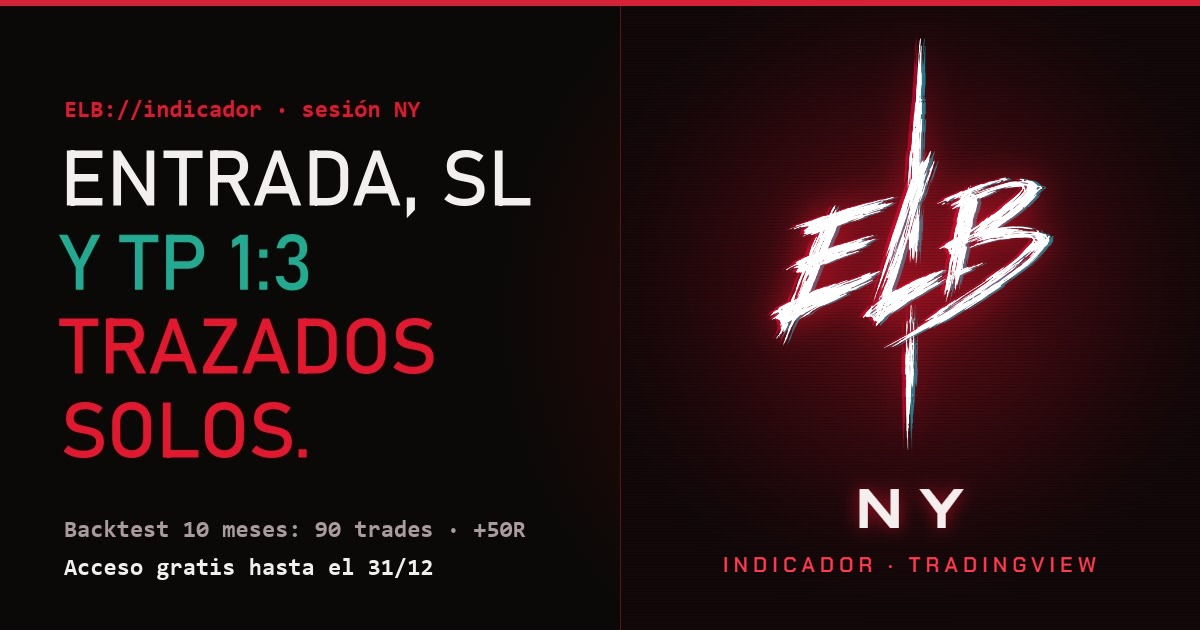
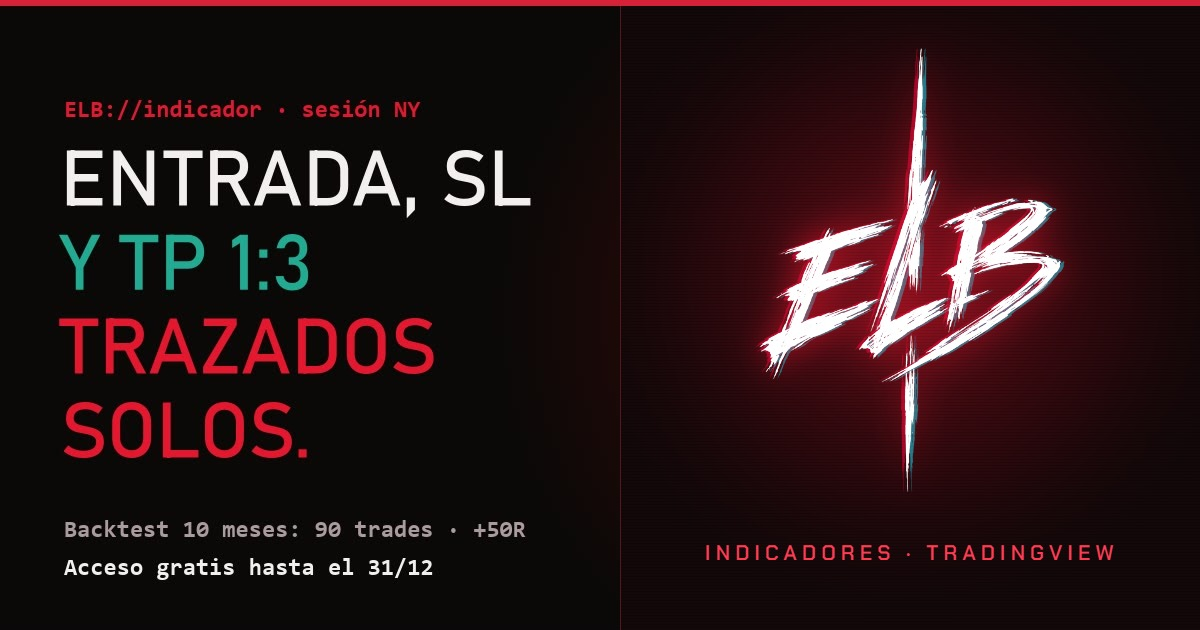
ELB como marca; el indicador queda como ELB NZDUSD, solo NZDUSD
- La marca del sitio es ELB (sin "NY") en la barra, el pie y el titulo
- El indicador se llama ELB NZDUSD y solo menciona NZDUSD: se quitan
  GBPUSD, EURUSD y NASDAQ100 de la portada, la cinta, la ficha y el FAQ
- Apartado #elb-nzdusd; los enlaces viejos #elb-ny siguen funcionando
- Vista previa al compartir sin "NY"

Changed region(s): [[0.5858, 0.0603, 0.925, 0.9048]]

diff --git a/index.html b/index.html
@@ -3,8 +3,8 @@
 <head>
 <meta charset="utf-8">
 <meta name="viewport" content="width=device-width, initial-scale=1, viewport-fit=cover">
-<title>ELB NY</title>
-<meta name="description" content="ELB NY: indicador para TradingView que traza la entrada, el stop loss y el take profit 1:3 en la sesión de Nueva York.">
+<title>ELB · Indicadores para TradingView</title>
+<meta name="description" content="ELB: indicadores para TradingView. ELB NZDUSD traza la entrada, el stop loss y el take profit 1:3 en NZDUSD durante la sesión de Nueva York.">
 <meta name="theme-color" content="#0b0809">
 <link rel="icon" type="image/png" sizes="16x16" href="media/favicon-16.png">
 <link rel="icon" type="image/png" sizes="32x32" href="media/favicon-32.png">
@@ -12,7 +12,7 @@
 <link rel="icon" type="image/svg+xml" sizes="any" href="media/favicon.svg">
 <link rel="apple-touch-icon" href="media/icon-180.png">
 <meta property="og:type" content="website">
-<meta property="og:title" content="ELB NY · Entrada, SL y TP 1:3 trazados solos">
+<meta property="og:title" content="ELB · Entrada, SL y TP 1:3 trazados solos">
 <meta property="og:description" content="Indicador para TradingView en la sesión de Nueva York. Backtest de 10 meses: 90 trades, +50R. Acceso gratis hasta el 31/12.">
 <meta property="og:url" content="https://garou-lb-06.github.io/elb-ny/">
 <meta property="og:image" content="https://garou-lb-06.github.io/elb-ny/media/og.jpg">
@@ -695,8 +695,8 @@ main:focus { outline: none; }
 
 <header class="nav" id="nav">
   <div class="wrap nav-in">
-    <a class="brand" href="#inicio" aria-label="ELB NY, ir al inicio">
-      <span class="logo"><img src="media/elb-logo.png" alt="ELB" width="494" height="720" decoding="async"></span><span class="brand-ny">NY</span>
+    <a class="brand" href="#inicio" aria-label="ELB, ir al inicio">
+      <span class="logo"><img src="media/elb-logo.png" alt="ELB" width="494" height="720" decoding="async"></span>
     </a>
     <nav class="nav-links" aria-label="Secciones">
       <a href="#indicadores">Indicadores</a>
@@ -743,7 +743,7 @@ main:focus { outline: none; }
           <span class="ln">y <span class="tp">TP 1:3</span>.</span>
           <span class="ln accent glitch auto" data-text="Trazados solos.">Trazados solos.</span>
         </h1>
-        <p class="lede">ELB NY detecta el setup en GBPUSD, EURUSD y NASDAQ100 y te deja la operación dibujada en el gráfico: dónde entrar, dónde cortar y dónde cobrar. Tú solo decides si la tomas.</p>
+        <p class="lede">ELB NZDUSD detecta el setup en NZDUSD durante la sesión de Nueva York y te deja la operación dibujada en el gráfico: dónde entrar, dónde cortar y dónde cobrar. Tú solo decides si la tomas.</p>
         <div class="hero-cta">
           <a class="btn btn-red" href="#acceso">Pedir acceso gratis
             <svg viewBox="0 0 24 24" fill="none" stroke="currentColor" stroke-width="2.4" aria-hidden="true"><path d="M5 12h14M13 6l6 6-6 6"/></svg>
@@ -764,7 +764,7 @@ main:focus { outline: none; }
       <div class="hero-media">
         <div class="giant" id="giant" aria-hidden="true"><span class="giant-logo"></span></div>
         <div class="phone" id="phone">
-          <video id="heroVideo" src="media/reel-historia.mp4" poster="media/reel-historia.jpg" autoplay muted loop playsinline preload="metadata" aria-label="Reel de ELB NY: los 5 trades de octubre, +$700"></video>
+          <video id="heroVideo" src="media/reel-historia.mp4" poster="media/reel-historia.jpg" autoplay muted loop playsinline preload="metadata" aria-label="Reel de ELB: los 5 trades de octubre, +$700"></video>
           <button class="sound-btn" id="soundBtn" type="button" aria-pressed="false">
             <svg viewBox="0 0 24 24" fill="none" stroke="currentColor" stroke-width="2" aria-hidden="true"><path d="M4 9v6h4l5 4V5L8 9H4z"/><path id="soundWave" d="M17 9l4 6M21 9l-4 6"/></svg>
             <span id="soundLabel">Activar sonido</span>
@@ -779,9 +779,9 @@ main:focus { outline: none; }
     <div class="tape" aria-hidden="true">
       <div class="tape-track">
         <div class="tape-group">
-          <span class="tape-item"><b>GBPUSD</b></span>
-          <span class="tape-item"><b>EURUSD</b></span>
-          <span class="tape-item"><b>NASDAQ100</b></span>
+          <span class="tape-item"><b>NZDUSD</b></span>
+          <span class="tape-item">Broker <b>OANDA</b></span>
+          <span class="tape-item">Gráfico <b>7 min</b></span>
           <span class="tape-item">Sesión NY <b>08:00–17:00 ET</b></span>
           <span class="tape-item">Riesgo / beneficio <b>1:3</b></span>
           <span class="tape-item">Entrada · SL · TP <b>trazados</b></span>
@@ -790,9 +790,9 @@ main:focus { outline: none; }
           <span class="tape-item">Acceso gratis <b>hasta el 31/12</b></span>
         </div>
         <div class="tape-group">
-          <span class="tape-item"><b>GBPUSD</b></span>
-          <span class="tape-item"><b>EURUSD</b></span>
-          <span class="tape-item"><b>NASDAQ100</b></span>
+          <span class="tape-item"><b>NZDUSD</b></span>
+          <span class="tape-item">Broker <b>OANDA</b></span>
+          <span class="tape-item">Gráfico <b>7 min</b></span>
           <span class="tape-item">Sesión NY <b>08:00–17:00 ET</b></span>
           <span class="tape-item">Riesgo / beneficio <b>1:3</b></span>
           <span class="tape-item">Entrada · SL · TP <b>trazados</b></span>
@@ -816,15 +816,15 @@ main:focus { outline: none; }
       <div class="ind-grid">
         <article class="ticket ind-card">
           <div class="ind-top">
-            <div class="ind-name"><span class="logo"><img src="media/elb-logo.png" alt="ELB" width="494" height="720" decoding="async"></span><span class="brand-ny">NY</span></div>
+            <div class="ind-name"><span class="logo"><img src="media/elb-logo.png" alt="ELB" width="494" height="720" decoding="async"></span><span class="brand-ny">NZDUSD</span></div>
             <span class="badge badge-free">Gratis hasta el 31/12</span>
           </div>
-          <p class="ind-full">ELB NY GBPUSD - EURUSD - NASDAQ100</p>
+          <p class="ind-full">ELB NZDUSD · Indicador para TradingView</p>
           <p class="ind-desc">Cuando se forma la señal, el indicador traza tres líneas: la entrada, el stop loss y el take profit a tres veces el riesgo. En la esquina del gráfico lleva la cuenta del mes: trades, TP, SL, winrate, R neto y beneficio.</p>
           <div class="ind-body">
             <dl class="specs">
-              <div><dt>Mercados</dt><dd><span class="chips"><span class="chip">GBPUSD</span><span class="chip">EURUSD</span><span class="chip">NASDAQ100</span></span></dd></div>
-              <div><dt>Resultados</dt><dd>NZDUSD · OANDA · 7 min <span class="must-tag">obligatorio</span></dd></div>
+              <div><dt>Mercado</dt><dd><span class="chips"><span class="chip">NZDUSD</span></span></dd></div>
+              <div><dt>Gráfico</dt><dd>NZDUSD · OANDA · 7 min <span class="must-tag">obligatorio</span></dd></div>
               <div><dt>Sesión</dt><dd>Nueva York</dd></div>
               <div><dt>Gestión</dt><dd>SL y TP 1:3 trazados en cada señal</dd></div>
               <div><dt>Panel</dt><dd>Resultados del mes en vivo</dd></div>
@@ -857,7 +857,7 @@ main:focus { outline: none; }
           </div>
           <div class="ind-actions">
             <a class="btn btn-red" href="#acceso">Pedir acceso</a>
-            <a class="btn btn-ghost" href="#elb-ny">Ver sus resultados</a>
+            <a class="btn btn-ghost" href="#elb-nzdusd">Ver sus resultados</a>
           </div>
         </article>
 
@@ -934,7 +934,7 @@ main:focus { outline: none; }
       <header class="sec-head">
         <p class="kicker">ELB://ratio-1-3</p>
         <h2>¿Por qué 1:3?</h2>
-        <p>Cada TP paga tres veces lo que arriesga cada SL. Con eso, acertar más de 1 de cada 4 operaciones ya deja el resultado en positivo. El control arranca en 39 %, el winrate real de ELB NY en 10 meses de backtest en NZDUSD de OANDA a 7 minutos. Muévelo y compruébalo.</p>
+        <p>Cada TP paga tres veces lo que arriesga cada SL. Con eso, acertar más de 1 de cada 4 operaciones ya deja el resultado en positivo. El control arranca en 39 %, el winrate real de ELB NZDUSD en 10 meses de backtest en NZDUSD de OANDA a 7 minutos. Muévelo y compruébalo.</p>
       </header>
 
       <div class="ticket calc">
@@ -980,7 +980,7 @@ main:focus { outline: none; }
       <header class="sec-head">
         <p class="kicker">ELB://acceso</p>
         <h2>Actívalo gratis en 4 pasos</h2>
-        <p>ELB NY es un script solo por invitación: lo activo a mano para tu usuario de TradingView. Sin pagos y sin tarjeta hasta el 31 de diciembre.</p>
+        <p>ELB NZDUSD es un script solo por invitación: lo activo a mano para tu usuario de TradingView. Sin pagos y sin tarjeta hasta el 31 de diciembre.</p>
       </header>
 
       <div class="acc-grid">
@@ -989,7 +989,7 @@ main:focus { outline: none; }
             <li><div><h3>Escríbeme</h3><p>Comenta <kbd>ELB</kbd> en cualquiera de mis reels o mándame un DM.</p></div></li>
             <li><div><h3>Pásame tu usuario</h3><p>Envíame tu nombre de usuario de TradingView. Abajo te armo el mensaje listo para copiar.</p></div></li>
             <li><div><h3>Te doy acceso</h3><p>Activo el indicador en tu cuenta y te aviso por el mismo chat.</p></div></li>
-            <li><div><h3>Agrégalo al gráfico</h3><p>En TradingView abre <kbd>Indicadores</kbd> → <kbd>Solo por invitación</kbd> y elige ELB NY. Márcalo con ★ para tenerlo en favoritos.</p></div></li>
+            <li><div><h3>Agrégalo al gráfico</h3><p>En TradingView abre <kbd>Indicadores</kbd> → <kbd>Solo por invitación</kbd> y elige ELB NZDUSD. Márcalo con ★ para tenerlo en favoritos.</p></div></li>
           </ol>
 
           <div class="ticket msg">
@@ -998,7 +998,7 @@ main:focus { outline: none; }
               <label for="tvUser">Tu usuario de TradingView</label>
               <input id="tvUser" type="text" placeholder="ej. trader_ny" autocomplete="off" spellcheck="false" maxlength="40">
             </div>
-            <pre class="msg-preview" id="msgPreview">Hola, quiero acceso gratis a ELB NY. Mi usuario de TradingView es: ________</pre>
+            <pre class="msg-preview" id="msgPreview">Hola, quiero acceso gratis a ELB NZDUSD. Mi usuario de TradingView es: ________</pre>
             <div class="msg-actions">
               <button class="btn btn-red btn-sm" id="copyMsg" type="button">Copiar mensaje</button>
               <span class="copy-status" id="copyStatus" role="status"></span>
@@ -1008,11 +1008,11 @@ main:focus { outline: none; }
         </div>
 
         <div style="display: grid; gap: 14px;">
-          <div class="tvdlg" aria-label="Vista del menú de indicadores de TradingView con ELB NY seleccionado" role="img">
+          <div class="tvdlg" aria-label="Vista del menú de indicadores de TradingView con ELB NZDUSD seleccionado" role="img">
             <div class="tvdlg-head"><span>Indicadores, métricas y estrategias</span><span class="x" aria-hidden="true">×</span></div>
             <div class="tvdlg-search">
               <svg viewBox="0 0 24 24" fill="none" stroke="currentColor" stroke-width="2.4" aria-hidden="true"><circle cx="11" cy="11" r="7"/><path d="M20 20l-4-4"/></svg>
-              <span id="tvTyped">ELB NY</span><span class="caret" aria-hidden="true"></span>
+              <span id="tvTyped">ELB</span><span class="caret" aria-hidden="true"></span>
             </div>
             <div class="tvdlg-body">
               <div class="tvdlg-side"><span>Favoritos</span><span>Personal</span><span>Técnicos</span><span>Financieros</span><span class="on">Solo por invitación</span></div>
@@ -1020,7 +1020,7 @@ main:focus { outline: none; }
                 <div class="tvdlg-cols"><span>NOMBRE</span><span>BOOSTS</span></div>
                 <div class="tvdlg-row" id="tvRow">
                   <svg viewBox="0 0 24 24" fill="currentColor" aria-hidden="true"><path d="M12 2l3.1 6.3 6.9 1-5 4.9 1.2 6.8L12 17.8 5.8 21l1.2-6.8-5-4.9 6.9-1z"/></svg>
-                  ELB NY GBPUSD - EURUSD - NASDAQ100
+                  ELB NZDUSD
                 </div>
               </div>
             </div>
@@ -1052,12 +1052,12 @@ main:focus { outline: none; }
       </header>
       <div class="faq">
         <details open>
-          <summary>¿Qué hace exactamente ELB NY?</summary>
+          <summary>¿Qué hace exactamente ELB NZDUSD?</summary>
           <div>Cuando se forma la señal, traza en tu gráfico la entrada, el stop loss y el take profit a tres veces el riesgo. Además muestra una tabla con los resultados del mes: trades, TP, SL, winrate, R neto y beneficio.</div>
         </details>
         <details>
-          <summary>¿En qué mercados y horario funciona?</summary>
-          <div>Está pensado para la sesión de Nueva York en GBPUSD, EURUSD y NASDAQ100. Sus resultados salen de un replay en NZDUSD de OANDA a 7 minutos, y para obtenerlos tienes que usar obligatoriamente ese gráfico: con otro par, otro broker u otra temporalidad las señales y los resultados cambian.</div>
+          <summary>¿En qué mercado y horario funciona?</summary>
+          <div>Funciona solo en NZDUSD, durante la sesión de Nueva York. Sus resultados salen de un replay en NZDUSD de OANDA a 7 minutos, y para obtenerlos tienes que usar obligatoriamente ese gráfico: con otro par, otro broker u otra temporalidad las señales y los resultados cambian.</div>
         </details>
         <details>
           <summary>¿Por qué la flecha dice SELL y las líneas marcan una compra?</summary>
@@ -1065,7 +1065,7 @@ main:focus { outline: none; }
         </details>
         <details>
           <summary>¿Puedo usarlo con TP a 1:2?</summary>
-          <div>Sí. Con las mismas señales y el TP a 1:2, de enero a octubre de 2026 cerró 43 TP y 47 SL (47.8 % de acierto) y +39R, contra +50R con 1:3. Lo comparo mes a mes en el apartado de ELB NY, en <a href="#elb-ny-comparativa">1:3 contra 1:2</a>, y el simulador te deja probar las dos versiones con tu capital.</div>
+          <div>Sí. Con las mismas señales y el TP a 1:2, de enero a octubre de 2026 cerró 43 TP y 47 SL (47.8 % de acierto) y +39R, contra +50R con 1:3. Lo comparo mes a mes en el apartado de ELB NZDUSD, en <a href="#elb-nzdusd-comparativa">1:3 contra 1:2</a>, y el simulador te deja probar las dos versiones con tu capital.</div>
         </details>
         <details>
           <summary>¿Por qué cada indicador tiene su propio apartado?</summary>
@@ -1081,7 +1081,7 @@ main:focus { outline: none; }
         </details>
         <details>
           <summary>¿Los resultados están garantizados?</summary>
-          <div>No. Los números de cada indicador salen de un backtest en replay; los de ELB NY son 90 operaciones en NZDUSD de OANDA a 7 minutos, de enero a octubre de 2026. Pruébalo primero en una cuenta demo y arriesga solo lo que puedas perder. Nada de esto es consejo financiero.</div>
+          <div>No. Los números de cada indicador salen de un backtest en replay; los de ELB NZDUSD son 90 operaciones en NZDUSD de OANDA a 7 minutos, de enero a octubre de 2026. Pruébalo primero en una cuenta demo y arriesga solo lo que puedas perder. Nada de esto es consejo financiero.</div>
         </details>
       </div>
     </div>
@@ -1092,7 +1092,7 @@ main:focus { outline: none; }
     <div class="wrap final-in">
       <div>
         <h2>El acceso gratis <em>cierra el 31/12</em></h2>
-        <p>Pide tu acceso hoy y prueba ELB NY en tu gráfico durante lo que queda del año.</p>
+        <p>Pide tu acceso hoy y prueba ELB NZDUSD en tu gráfico durante lo que queda del año.</p>
       </div>
       <div style="display: grid; gap: 16px;">
         <div class="cd-boxes" data-countdown>
@@ -1110,7 +1110,7 @@ main:focus { outline: none; }
 <footer>
   <div class="wrap foot">
     <div>
-      <a class="brand" href="#inicio" aria-label="ELB NY, ir al inicio"><span class="logo"><img src="media/elb-logo.png" alt="ELB" width="494" height="720" decoding="async"></span><span class="brand-ny">NY</span></a>
+      <a class="brand" href="#inicio" aria-label="ELB, ir al inicio"><span class="logo"><img src="media/elb-logo.png" alt="ELB" width="494" height="720" decoding="async"></span></a>
       <nav class="foot-nav" aria-label="Secciones (pie de página)">
         <a href="#indicadores">Indicadores</a>
         <a href="#acceso">Acceso</a>
@@ -1123,7 +1123,7 @@ main:focus { outline: none; }
     </div>
     <div>
       <p>Los resultados mostrados provienen de un backtest en el modo replay de TradingView y no garantizan resultados futuros. Operar con apalancamiento implica un alto riesgo de pérdida. Nada en este sitio es consejo financiero ni una recomendación de inversión.</p>
-      <p>TradingView es una marca de TradingView, Inc. ELB NY es un script independiente. © 2026 ELB NY.</p>
+      <p>TradingView es una marca de TradingView, Inc. Los indicadores ELB son scripts independientes. © 2026 ELB.</p>
     </div>
   </div>
 </footer>
@@ -1138,23 +1138,23 @@ main:focus { outline: none; }
     { id: 'instagram', nombre: 'Instagram', usuario: '', url: '', dm: '', texto: 'Reels de backtests y las señales de la sesión.' },
     { id: 'tiktok', nombre: 'TikTok', usuario: '', url: '', dm: '', texto: 'Los mismos reels, primero que en ningún lado.' },
     { id: 'youtube', nombre: 'YouTube', usuario: '', url: '', dm: '', texto: 'Shorts y explicaciones más largas del indicador.' },
-    { id: 'tradingview', nombre: 'TradingView', usuario: '', url: '', dm: '', texto: 'Mi perfil, donde está publicado ELB NY.' },
+    { id: 'tradingview', nombre: 'TradingView', usuario: '', url: '', dm: '', texto: 'Mi perfil, donde publico los indicadores ELB.' },
   ];
   const FIN_GRATIS = new Date(2026, 11, 31, 23, 59, 59);
 
   /* ======== Configuración: tus indicadores ========
      Cada indicador tiene su propio apartado en la página: resultados, comparación de TP y simulador de cuenta.
-     Para agregar uno nuevo copia el bloque de ELB NY, cámbiale el id (sin espacios) y pon sus datos.
+     Para agregar uno nuevo copia el bloque de ELB NZDUSD, cámbiale el id (sin espacios) y pon sus datos.
      - grafico: el gráfico exacto donde se obtuvieron los resultados. Se muestra como obligatorio.
      - ratios: los TP y SL de cada mes con cada objetivo de TP (3 = TP a 1:3, 2 = TP a 1:2).
        Con un solo ratio el apartado no muestra la comparación.
      - orden: el orden de los trades del mes si quedó grabado (1 = TP, 0 = SL); si no, null. */
   const INDICADORES = [
     {
-      id: 'elb-ny',
-      nombre: 'ELB NY',
-      marca: { logo: 'media/elb-logo.png', ancho: 494, alto: 720, sufijo: 'NY' },
-      completo: 'ELB NY GBPUSD - EURUSD - NASDAQ100',
+      id: 'elb-nzdusd',
+      nombre: 'ELB NZDUSD',
+      marca: { logo: 'media/elb-logo.png', ancho: 494, alto: 720, sufijo: 'NZDUSD' },
+      completo: 'Indicador para TradingView · Sesión de Nueva York',
       grafico: { par: 'NZDUSD', nombrePar: 'Dólar neozelandés/Dólar estadounidense', broker: 'OANDA', minutos: 7 },
       periodo: { corto: 'Ene – Oct 2026', largo: 'de enero a octubre de 2026', todos: 'Los 10 meses (ene – oct)' },
       riesgoUsd: 100,
@@ -1983,8 +1983,9 @@ main:focus { outline: none; }
   // links from before the apartados existed (#resultados, #comparativa, #simulador) open the first indicator's
   const legacyHash = () => {
     const h = decodeURIComponent(location.hash.slice(1));
-    if (!['resultados', 'comparativa', 'simulador'].includes(h)) return;
-    const t = document.getElementById(`${INDICADORES[0].id}-${h}`);
+    // before the rename to ELB NZDUSD this apartado was #elb-ny
+    const id = ['resultados', 'comparativa', 'simulador'].includes(h) ? `${INDICADORES[0].id}-${h}` : /^elb-ny(-|$)/.test(h) ? h.replace(/^elb-ny/, 'elb-nzdusd') : '';
+    const t = id && document.getElementById(id);
     if (t) { history.replaceState(null, '', '#' + t.id); t.scrollIntoView({ behavior: 'instant' }); }
   };
   legacyHash(); addEventListener('hashchange', legacyHash);
@@ -2045,7 +2046,7 @@ main:focus { outline: none; }
 
   /* ---------- access message ---------- */
   const tvUser = $('#tvUser'), preview = $('#msgPreview'), status = $('#copyStatus');
-  const buildMsg = () => `Hola, quiero acceso gratis a ELB NY. Mi usuario de TradingView es: ${tvUser.value.trim() || '________'}`;
+  const buildMsg = () => `Hola, quiero acceso gratis a ELB NZDUSD. Mi usuario de TradingView es: ${tvUser.value.trim() || '________'}`;
   tvUser.addEventListener('input', () => { preview.textContent = buildMsg(); status.textContent = ''; });
   $('#copyMsg').addEventListener('click', () => {
     const text = buildMsg();
@@ -2061,7 +2062,7 @@ main:focus { outline: none; }
   let tvTimer = null;
   $('#tvReplay').addEventListener('click', () => {
     clearTimeout(tvTimer);
-    const q = 'ELB NY'; let i = 0;
+    const q = 'ELB'; let i = 0;
     typed.textContent = ''; row.classList.add('pending'); row.classList.remove('idle');
     if (reduce) { typed.textContent = q; row.classList.remove('pending'); return; }
     const tick = () => {
